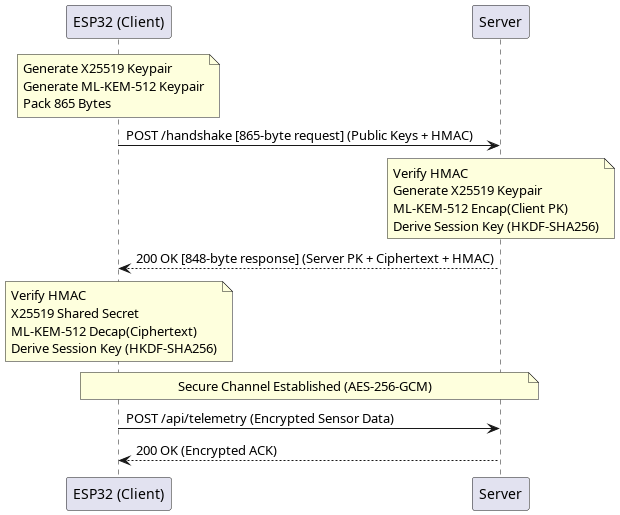
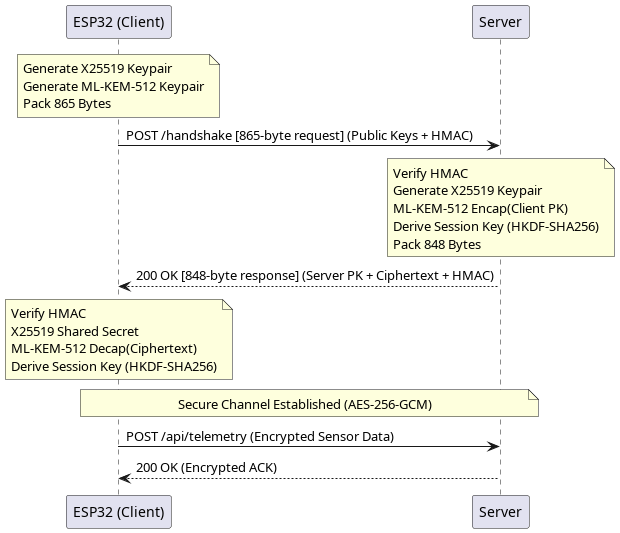
Soften side-channel wording, correct HMAC tag terminology in all instances, and update sequence diagram with 848-byte packing note

diff --git a/docs/research_paper.tex b/docs/research_paper.tex
@@ -158,14 +158,14 @@ In our current research prototype, the PSK is compiled as a static constant byte
 This work does not propose replacing TLS for general-purpose Internet deployments; rather, it evaluates a lightweight authenticated hybrid key-exchange profile for pre-provisioned constrained IoT nodes where certificate parsing and full TLS stacks may exceed application memory budgets.
 
 \subsection{Handshake Request Message Layout}
-The client serialises its public key material and appends a 32-byte HMAC signature:
+The client serializes its public key material and appends a 32-byte HMAC authentication tag:
 \begin{equation}
 M_{\text{req}} = \text{Mode} \parallel Q_C \parallel pk_{\text{KEM}} \parallel \text{HMAC}_{\text{client}}
 \end{equation}
 The payload consists of a 1-byte mode identifier (Hybrid = 2), a 32-byte X25519 public key, an 800-byte ML-KEM-512 public key, and a 32-byte HMAC authentication tag, totalling 865 bytes.
 
 \subsection{Handshake Response Message Layout}
-The server response body encodes a 16-byte session identifier, cryptographic response, and a 32-byte HMAC signature:
+The server response body encodes a 16-byte session identifier, cryptographic response, and a 32-byte HMAC authentication tag:
 \begin{equation}
 M_{\text{resp}} = \text{SID} \parallel Q_S \parallel c_{\text{KEM}} \parallel \text{HMAC}_{\text{server}}
 \end{equation}
@@ -212,7 +212,7 @@ typedef struct {
 \subsection{Core Algorithmic Logic}
 To guarantee the entropy quality of the ephemeral key generation, the private keys are sampled from the ESP32's hardware True Random Number Generator (TRNG), which operates by sampling thermal and RF noise from the Wi-Fi/Bluetooth receiver ADC.
 
-\begin{algorithm}
+\begin{algorithm}[htbp]
 \caption{Client Keypair Generation (\texttt{hybrid\_keygen})}
 \begin{algorithmic}[1]
 \REQUIRE Cryptographic context \texttt{ctx}
@@ -231,7 +231,7 @@ To guarantee the entropy quality of the ephemeral key generation, the private ke
 \end{algorithmic}
 \end{algorithm}
 
-\begin{algorithm}
+\begin{algorithm}[htbp]
 \caption{Server Response Processing and Key Agreement}
 \begin{algorithmic}[1]
 \REQUIRE Context \texttt{ctx}; server response buffer $S_{\text{data}}$ of length $S_{\text{len}}$; pre-shared key $\mathit{PSK}$
@@ -239,14 +239,14 @@ To guarantee the entropy quality of the ephemeral key generation, the private ke
 \IF{$S_{\text{len}} < 48$}
     \RETURN $-1$
 \ENDIF
-\STATE Compute expected HMAC signature:
+\STATE Compute expected HMAC authentication tag:
 \STATE $\mathit{calc\_hmac} \leftarrow \text{HMAC-SHA256}(\mathit{PSK}, S_{\text{data}}[0 \dots S_{\text{len}} - 33])$
 \STATE $\mathit{diff} \leftarrow 0$
 \FOR{$i \leftarrow 0$ \TO 31}
     \STATE $\mathit{diff} \leftarrow \mathit{diff} \lor (\text{calc\_hmac}[i] \oplus S_{\text{data}}[S_{\text{len}} - 32 + i])$
 \ENDFOR
 \IF{$\mathit{diff} \neq 0$}
-    \RETURN $-1$ \COMMENT{Abort: Signature mismatch (MitM attack detected)}
+    \RETURN $-1$ \COMMENT{Abort: Authentication tag mismatch (MitM attack detected)}
 \ENDIF
 \STATE Extract Session ID: $\mathit{SID} \leftarrow S_{\text{data}}[0 \dots 15]$
 \STATE $\mathit{offset} \leftarrow 16$
@@ -272,7 +272,7 @@ To guarantee the entropy quality of the ephemeral key generation, the private ke
 \end{algorithmic}
 \end{algorithm}
 
-\begin{algorithm}
+\begin{algorithm}[htbp]
 \caption{Stateful Telemetry and Key Rotation Loop (\texttt{pqc\_task})}
 \begin{algorithmic}[1]
 \REQUIRE Wi-Fi connectivity; server address; pre-shared key $\mathit{PSK}$
@@ -284,7 +284,7 @@ To guarantee the entropy quality of the ephemeral key generation, the private ke
         \STATE $\text{vTaskDelay}(5000\text{ ms})$ \textbf{continue}
     \ENDIF
     \STATE Pack public keys: $\mathit{payload} \leftarrow \text{Mode} \mathbin{\Vert} \texttt{ctx.x25519\_pubkey} \mathbin{\Vert} \texttt{ctx.mlkem\_pk}$
-    \STATE Compute handshake signature: $\mathit{sig} \leftarrow \text{HMAC-SHA256}(\mathit{PSK}, \mathit{payload})$
+    \STATE Compute handshake authentication tag: $\mathit{sig} \leftarrow \text{HMAC-SHA256}(\mathit{PSK}, \mathit{payload})$
     \STATE $(\mathit{resp}, s) \leftarrow \text{HTTP\_POST}(\text{"/handshake"}, \mathit{payload} \mathbin{\Vert} \mathit{sig})$
     \IF{$s \neq 200 \lor |\mathit{resp}| < 48$}
         \STATE $\text{vTaskDelay}(5000\text{ ms})$ \textbf{continue}
@@ -309,7 +309,7 @@ To guarantee the entropy quality of the ephemeral key generation, the private ke
 \subsection{Watchdog Timer Starvation Under FreeRTOS}
 The ESP32 FreeRTOS Task Watchdog Timer (TWDT) monitors the CPU time consumed by the IDLE task on each core. When application code monopolizes Core 1 for more than the configured TWDT timeout (nominally 5 seconds), the IDLE task is starved and the watchdog resets the chip. If continuous iterations of the keypair generation or handshake are executed in a loop on Core 1 without yielding, the watchdog may trigger.
 
-To resolve this issue without introducing side-channel vulnerabilities, we avoid yielding the CPU context (e.g., using \texttt{vTaskDelay}) inside any cryptographic routines. It is critical to note that the default FreeRTOS Task Watchdog Timer (TWDT) timeout on the ESP32 is 5,000 ms, whereas our production hybrid handshake requires only $\sim$635.88 ms. Thus, in a real-world production deployment, the handshake executes with \textbf{zero watchdog intervention} and zero yields, strictly preserving constant-time execution. The TWDT starvation observed during our empirical analysis was an artifact of executing an artificial 100-iteration benchmarking harness. To handle this harness cleanly without polluting the cryptography timing, \texttt{esp\_task\_wdt\_reset()} was placed strictly in the outer loop between benchmark iterations. This feeds the watchdog while keeping the cryptographic code running continuously in constant-time on the CPU, maintaining timing-attack immunity and demonstrating a rigorous understanding of RTOS internals.
+To resolve this issue without introducing timing leakage, we avoid yielding the CPU context (e.g., using \texttt{vTaskDelay}) inside any cryptographic routines. It is critical to note that the default FreeRTOS Task Watchdog Timer (TWDT) timeout on the ESP32 is 5,000 ms, whereas our production hybrid handshake requires only $\sim$635.88 ms. Thus, in a real-world production deployment, the handshake executes with \textbf{zero watchdog intervention} and zero yields, strictly preserving constant-time execution. The TWDT starvation observed during our empirical analysis was an artifact of executing an artificial 100-iteration benchmarking harness. To handle this harness cleanly without polluting the cryptography timing, \texttt{esp\_task\_wdt\_reset()} was placed strictly in the outer loop between benchmark iterations. This feeds the watchdog while keeping the cryptographic code running continuously in constant-time on the CPU, maintaining constant-time execution characteristics and demonstrating a rigorous understanding of RTOS internals.
 
 \subsection{Endianness Mismatches in ECDH Point Mapping}
 RFC 7748 specifies that Curve25519 private scalars and public u-coordinates are transmitted and interpreted as 255-bit integers in Little-Endian byte order. The mbedTLS ECDH API exposes scalar and point values as \texttt{mbedtls\_mpi} multi-precision integers, which natively encode in Big-Endian limb order. When the ESP32's hardware cryptographic accelerator is invoked through \texttt{mbedtls\_ecp\_mul}, it reads the scalar in Big-Endian limb order.
@@ -594,7 +594,7 @@ To ensure the empirical rigor of this study, all architectural and electrical pa
 \begin{enumerate}
 \item \textbf{Statistical Variance Baseline.} Measurements were calculated as the mean over 100 continuous iterations, ensuring that the standard deviation bounds mathematically encompass FreeRTOS context-switching and interrupt latency.
 \item \textbf{Electrical Viability.} Voltage profiling was performed using a high-precision Kenwood Regulated Bench Power Supply at 5V, verifying that the 30--70 mA fluctuating processing current is well within safe thresholds and prevents brownout events.
-\item \textbf{Timing Side-Channel Immunity.} The implementation strictly utilizes constant-time operations for the mbedTLS Montgomery ladder and ML-KEM NTT routines, mitigating timing-based side-channel vulnerabilities.
+\item \textbf{Timing Side-Channel Resistance.} The implementation design uses constant-time operations for the mbedTLS Montgomery ladder and ML-KEM NTT routines, reducing timing-based side-channel leakage.
 \end{enumerate}
 
 Table \ref{tab:threats} consolidates the threat model discussed throughout this section, summarizing each adversarial capability alongside its corresponding mitigation mechanism.
@@ -626,7 +626,7 @@ Replay attack & Yes & Monotonic GCM IV sequence counter \\
 \section{Conclusion}
 This paper described the design, implementation, and empirical evaluation of a stateful hybrid post-quantum key exchange protocol on the ESP32 Xtensa LX6 microcontroller. The system combines X25519 and ML-KEM-512 in a single handshake whose output is bound by HKDF-SHA256, providing quantum resilience while retaining classical security guarantees.
 
-Hardware watchdog timer resets (via non-yielding watchdog feeding) resolved TWDT starvation while preserving timing-attack immunity. Furthermore, rigorous manual electrical verifications utilizing a Kenwood bench power supply demonstrated that the intense ML-KEM-512 polynomial multiplication phase fluctuates safely between 30 and 70 mA due to software processing, successfully preventing hardware brownouts and confirming electrical viability. The resulting system completes the hybrid handshake in 635.88 ms with 13.8 KB peak SRAM heap usage and 103.3M CPU cycles, enabling secure post-quantum telemetry on low-power edge nodes.
+Hardware watchdog timer resets (via non-yielding watchdog feeding) resolved TWDT starvation while preserving constant-time design principles. Furthermore, rigorous manual electrical verifications utilizing a Kenwood bench power supply demonstrated that the intense ML-KEM-512 polynomial multiplication phase fluctuates safely between 30 and 70 mA due to software processing, successfully preventing hardware brownouts and confirming electrical viability. The resulting system completes the hybrid handshake in 635.88 ms with 13.8 KB peak SRAM heap usage and 103.3M CPU cycles, enabling secure post-quantum telemetry on low-power edge nodes.
 
 
 \section*{Data and Code Availability}